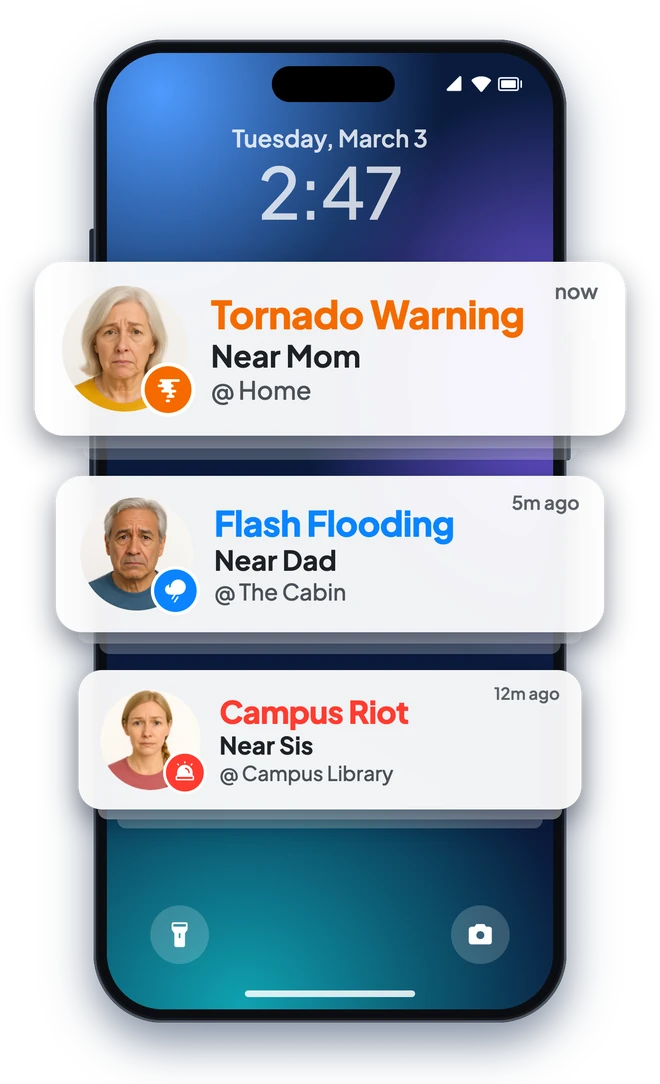
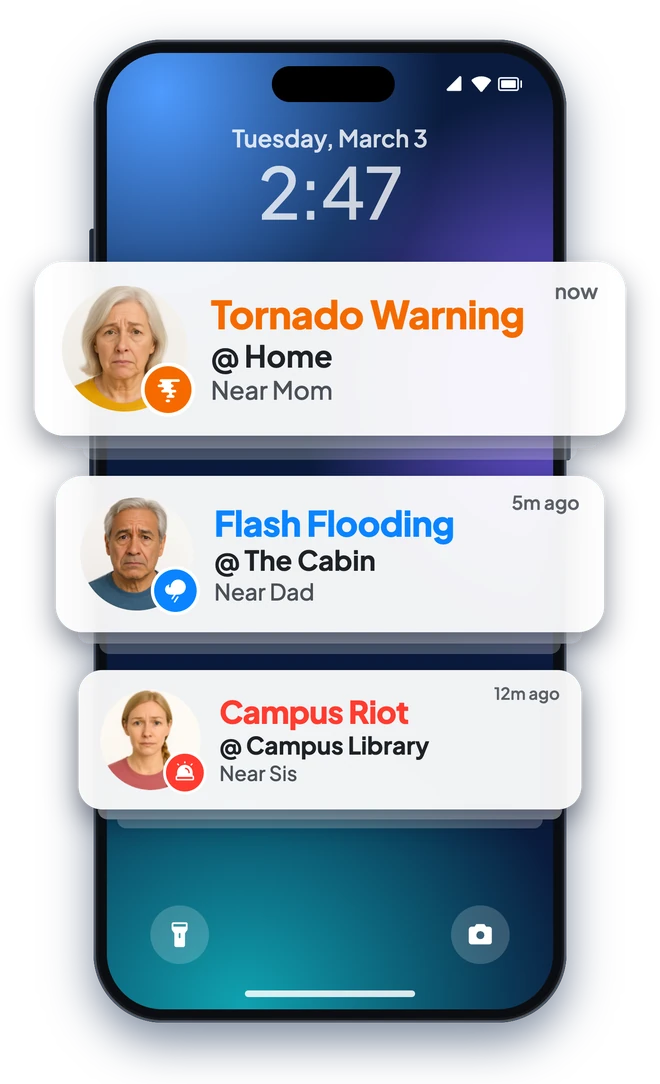
Hero alert phone shows the place first; it's the one hero image on phones

Changed region(s): [[0.303, 0.4871, 0.5758, 0.5784], [0.3333, 0.6697, 0.6667, 0.7306], [0.303, 0.3044, 0.5455, 0.3958]]

diff --git a/index.html b/index.html
@@ -17,7 +17,7 @@
   <link rel="preconnect" href="https://fonts.googleapis.com">
   <link rel="preconnect" href="https://fonts.gstatic.com" crossorigin>
   <link href="https://fonts.googleapis.com/css2?family=Plus+Jakarta+Sans:wght@500;600;700;800&display=swap" rel="stylesheet">
-  <link rel="stylesheet" href="home.css?v=1018b">
+  <link rel="stylesheet" href="home.css?v=1019a">
   <link rel="stylesheet" href="map.css?v=1018">
   <script type="application/ld+json">{"@context": "https://schema.org", "@graph": [{"@type": "Organization", "name": "LooopApp LLC", "alternateName": "Looop", "url": "https://www.thelooopapp.com/", "logo": "https://www.thelooopapp.com/images/press/looop-icon-1024.png", "email": "support@thelooopapp.com", "address": {"@type": "PostalAddress", "addressLocality": "Austin", "addressRegion": "TX", "addressCountry": "US"}, "@id": "https://www.thelooopapp.com/#org"}, {"@type": "MobileApplication", "name": "Looop", "operatingSystem": "iOS", "applicationCategory": "LifestyleApplication", "description": "Looop is a safety notifications app for families who care from a distance. It brings holistic family care to the people you love: weather, crime, spending, health, activity, and the shape of each day come together in one answer, so families know when to check in.", "url": "https://apps.apple.com/us/app/looop-keep-loved-ones-safe/id6760598111", "publisher": {"@id": "https://www.thelooopapp.com/#org"}}]}</script>
 </head>
@@ -53,7 +53,7 @@
     </div>
   </div>
   <div class="hero-phones" aria-hidden="true">
-    <img src="images/home/phone1.webp" alt=""><img src="images/home/phone3.webp" alt=""><img src="images/home/phone2.webp" alt="">
+    <img src="images/home/phone1.webp?v=2" alt=""><img src="images/home/phone3.webp" alt=""><img src="images/home/phone2.webp" alt="">
   </div>
 </header>
 
@@ -118,7 +118,7 @@
       </div>
 
       <div class="feature">
-        <div class="art"><img loading="lazy" src="images/home/phone1.webp" alt="Lock screen with Looop alerts for a tornado warning near Mom and flash flooding near Dad"></div>
+        <div class="art"><img loading="lazy" src="images/home/phone1.webp?v=2" alt="Lock screen with Looop alerts for a tornado warning at Home near Mom and flash flooding at The Cabin near Dad"></div>
         <div class="copy">
           <p class="eyebrow">"Is that storm anywhere near&nbsp;Dad?"</p>
           <h3>Storm near Mom? You'll&nbsp;know.</h3>

diff --git a/for-college-families.html b/for-college-families.html
@@ -53,7 +53,7 @@
         <p class="tagline spaced">An alert leads to one calm text, so you can skip the ten anxious&nbsp;ones.</p>
       </div>
       <div class="split-media product-shot single">
-        <img src="images/home/phone1.webp" width="660" height="1084" loading="lazy" alt="A phone lock screen with Looop alerts: a tornado warning near Mom, flash flooding near Dad, and an alert near Sis at the campus library">
+        <img src="images/home/phone1.webp?v=2" width="660" height="1084" loading="lazy" alt="A phone lock screen with Looop alerts: a tornado warning at Home near Mom, flash flooding at The Cabin near Dad, and an alert at the Campus Library near Sis">
       </div>
     </div>
   </section>

diff --git a/home.css b/home.css
@@ -162,7 +162,8 @@
     .reads a + a { padding-left: 0; border-left: 0; border-top: 1px solid var(--line); }
     .faces img { width: 60px; height: 60px; margin-inline: -6px; }
     .faces img.lead { width: 84px; height: 84px; }
-    .hero-phones img:nth-child(1), .hero-phones img:nth-child(3) { display: none; }
+    .hero-phones img:nth-child(2), .hero-phones img:nth-child(3) { display: none; }
+    .hero-phones img:nth-child(1) { margin-top: 0; }
     .hero-phones img { width: min(74vw, 300px); }
     .hero-phones { height: 320px; }
     footer .cols { grid-template-columns: 1fr 1fr; }

diff --git a/CHANGELOG.md b/CHANGELOG.md
@@ -2,6 +2,12 @@
 
 Changes to thelooopapp.com, newest first. This file is not published (see `_config.yml`).
 
+## 2026-10-19 10:56 CT
+
+### Design
+- **Lock-screen alert phone uses the place-first version** (`images/home/phone1.webp`): re-rendered with a transparent background from the app repo's `marketing/app_store_screenshots/canvas_source/project/Main.dc.html`, the board where App Store screenshot 1 was flipped on Oct 16. Each notification now shows the place second in bold ("@ Home", "@ The Cabin", "@ Campus Library") and the person third in grey ("Near Mom", "Near Dad", "Near Sis"). Same 660x1084 frame as before. It shows in the homepage hero, the homepage weather and crime section, and the college families page. Referenced as `phone1.webp?v=2` so caches pick it up, and alt text now names the places.
+- **On phones the hero shows the alert phone** (`home.css`): when the three hero phones shrink to one, it is now the lock-screen alert phone instead of "All is well" (the "Time to check in" phone stays hidden too). Its desktop offset is reset on mobile so it sits at the top. `index.html` links `home.css?v=1019a`.
+
 ## 2026-10-19 10:44 CT
 
 ### Copy
